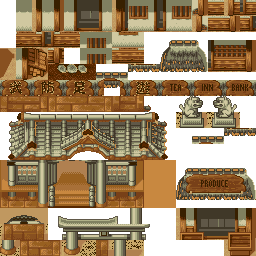
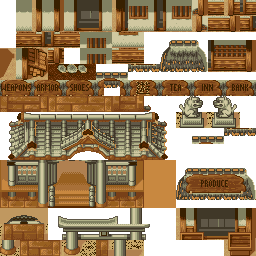
Translate equipment shop plaques and document narrow tile layouts

Changed region(s): [[0.0, 0.3125, 0.2188, 0.375], [0.2812, 0.3125, 0.3438, 0.375]]

diff --git a/tools/debug/field_label_plan.py b/tools/debug/field_label_plan.py
@@ -1,0 +1,62 @@
+"""Inspect a plaque's complete native tile neighborhood and unused atlas slots.
+
+    python tools/debug/field_label_plan.py GV06000D.BIN:0 200 80
+
+Static navigation/allocation evidence only; cold captures remain the QA gate.
+"""
+import argparse
+from pathlib import Path
+import struct
+import sys
+
+sys.path.insert(0, str(Path(__file__).resolve().parents[1]))
+import arc
+import gfx
+from field_consumers import inspect
+
+
+def main():
+    parser = argparse.ArgumentParser(description=__doc__)
+    parser.add_argument('key')
+    parser.add_argument('u', type=int)
+    parser.add_argument('v', type=int)
+    args = parser.parse_args()
+    owners, rows = inspect(args.key, (0, 0, 256, 256))
+    targets = {(row[1], row[2], row[4]) for row in rows
+               if row[3] == 'tile' and row[5:7] == (args.u, args.v)}
+    used = set()
+    for row in rows:
+        _, _, _, _, _, u, v, w, h, *_ = row
+        used.update((x, y) for y in range(v, v + h) for x in range(u, u + w))
+    name, entry = args.key.split(':')
+    raw = gfx.unpack(arc.entries((gfx.TREE / name).read_bytes())[int(entry)][1])[0]
+    assert gfx.layout(raw)[1:3] == (256, 256), 'requires a 256x256 field atlas'
+    pixels = gfx.indices(raw)
+    slots = [(x, y) for y in range(0, 241, 16) for x in range(0, 209, 16)
+             if all((xx, yy) not in used and pixels[yy * 256 + xx] == 0
+                    for yy in range(y, y + 16) for xx in range(x, x + 48))]
+    print('unreferenced transparent 48x16 slots:', slots)
+    for companion in sorted({owner[1] for owner in owners}):
+        entries = arc.entries((gfx.TREE / companion).read_bytes())
+        for entry, (_, table) in enumerate(entries):
+            if table[:2] != b'\x22\x03':
+                continue
+            count = struct.unpack_from('<H', table, 4)[0]
+            records = [struct.unpack_from('<BB3H', table, 8 + i * 8) for i in range(count)]
+            for index, record in enumerate(records):
+                if (companion, entry, index) not in targets:
+                    continue
+                print(companion, 'table', entry, 'tile', index, 'record', record)
+                for grid_entry, (_, grid) in enumerate(entries):
+                    if grid[:4] != b'\x23\0\0\0':
+                        continue
+                    width, height = grid[4:6]
+                    cells = struct.unpack_from(f'<{width * height}H', grid, 8)
+                    for cell, value in enumerate(cells):
+                        if value == index:
+                            print(' grid', grid_entry, 'cell', (cell % width, cell // width),
+                                  'neighbors', [(v, records[v]) for v in cells[cell - 1:cell + 2]])
+
+
+if __name__ == '__main__':
+    main()

diff --git a/tools/gfx_signs.py b/tools/gfx_signs.py
@@ -158,6 +158,16 @@ for _name, (_x, _y, _height) in FISH_ATLASES.items():
          ['Fish Shop'], None, 'plaque'))
 
 
+# Map45 draws these as pairs of 16-pixel tiles. Weapons needs the full
+# thirty-pixel interior; extend the wood behind it within the existing board.
+# The complete index-12/13 masks occur only here in the original archive sweep.
+EQUIPMENT_SIGNS = [('weapons', 0, 'Weapons'), ('armor', 32, 'Armor'), ('shoes', 64, 'Shoes')]
+for _label, _u, _word in EQUIPMENT_SIGNS:
+    SIGNS['GV01000D.BIN:0'].append(
+        (_label, [(_u, 80, 32, 16, 0, 0)], (1, 1, 31, 14), [_word], None,
+         'wide_plaque' if _label == 'weapons' else 'equipment'))
+
+
 def assemble(im, pieces):
     out = Image.new('RGBA', (max(x + w for _, _, w, _, x, _ in pieces),
                              max(y + h for _, _, _, h, _, y in pieces)))
@@ -192,20 +202,23 @@ def draw(im, key, pal):
                 assert wood, (key, y)
                 for x in range(x0, x1):
                     px[x, y] = wood[(x - x0) % len(wood)]
-        elif kind in ('plaque', 'engraved'):
-            # Remove both the engraved stroke and its highlight. Sample only
-            # wood colours, leaving the carved board edge and roof untouched.
+        elif kind in ('plaque', 'engraved', 'wide_plaque', 'equipment'):
+            # Remove engraved strokes and highlights using only wood colours.
+            # Wide plaques also extend wood within their declared interior.
             import gfx
             colours = gfx.palette(gen_gfx.original(key)[0], gen_gfx.EDIT_PALETTES.get(key, 0))
             colour = colours[12]
             ink = set(colours[12:14])
             wood_colours = set(colours[7:11])
             for y in range(y0, y1):
+                # Wide labels can occupy the whole interior: sample untouched
+                # wood in the original row before replacing any pixels.
                 wood = {x: px[x, y] for x in range(board.width)
-                        if px[x, y] in wood_colours and not x0 <= x < x1}
+                        if px[x, y] in wood_colours and
+                        (kind in ('wide_plaque', 'equipment') or not x0 <= x < x1)}
                 assert wood, (key, y)
                 for x in range(x0, x1):
-                    if px[x, y] in ink:
+                    if px[x, y] in ink or (kind == 'wide_plaque' and 3 <= y <= 11):
                         px[x, y] = wood[min(wood, key=lambda sx: abs(sx - x))]
         else:
             # The original lettering is grey; keep the coloured cloth and its

diff --git a/tools/debug/signs_tour.py b/tools/debug/signs_tour.py
@@ -22,6 +22,7 @@ import gen_scenes  # noqa: E402
 from field_signs import check  # noqa: E402
 
 CASES = {
+    'equipment45': (45, 34, 29, 0, 'GV01000D.BIN:0'),
     'produce45': (45, 38, 29, 0, 'GV01000D.BIN:0'),
     'produce80': (80, 21, 43, 0, 'GV04000D.BIN:0'),
     'produce81': (81, 21, 43, 0, 'GV04002D.BIN:0'),
@@ -139,7 +140,8 @@ CASES = {
 # These atlases also retain another Inn tile beneath/outside the visible
 # map layer. These routes approve only the displayed layer's complete label.
 CASE_LABELS = {'inn80': ('inn2',), 'inn163': ('inn2',), 'inn99': ('inn',),
-               'inn100': ('inn',), 'inn295': ('inn',), 'inn335': ('inn2',)}
+               'inn100': ('inn',), 'inn295': ('inn',), 'inn335': ('inn2',),
+               'equipment45': ('weapons', 'armor', 'shoes')}
 
 
 def run(name, args, initializers):

diff --git a/tests/test_signs.py b/tests/test_signs.py
@@ -101,7 +101,7 @@ def test_small_games_boards_keep_complete_english_and_remove_japanese():
 def test_shop_names_use_complete_strokes_in_the_inserted_palette():
     # Night CLUT 0 aliases wood and ink; inspect inserted indices, not just PNGs.
     for key, signs in gfx_signs.SIGNS.items():
-        selected = [s for s in signs if s[0] in ('produce', 'fish')]
+        selected = [s for s in signs if s[0] in ('produce', 'fish', 'weapons', 'armor', 'shoes')]
         if not selected:
             continue
         revised = gfx.indices(gen_gfx.redrawn(key))

diff --git a/docs/re/equipment-signs-qa.md b/docs/re/equipment-signs-qa.md
@@ -1,0 +1,111 @@
+# Equipment shop plaques and narrow-plaque investigation
+
+Map45's three equipment plaques now read **Weapons**, **Armor** and **Shoes**.
+Cold original/English captures show all three completely, and a fresh read-only
+D10 pass accepts all six context/detail sheets. This resolves the equipment
+finding in the older shop-board review; that historical verdict is unchanged.
+Phase 8 remains incomplete and cannot advance to release.
+
+## Sources and preservation
+
+`tools/gfx_signs.py` declares three 32x16 source strips in GV01000D:0 at
+(0,80), (32,80) and (64,80). GV01001D:2 records 70-75 draw them as paired
+16x16 tiles at grid positions (30,31)/(31,31), (38,31)/(39,31), and
+(30,24)/(31,24), respectively. No tile records or map grids were changed.
+
+The complete engraved stroke/highlight masks occur only once each in the
+original archive sweep:
+
+```
+python -X utf8 tools/gfxfind_rect.py GV01000D.BIN:0 9 81 22 94 --indices 12 13
+python -X utf8 tools/gfxfind_rect.py GV01000D.BIN:0 41 81 54 94 --indices 12 13
+python -X utf8 tools/gfxfind_rect.py GV01000D.BIN:0 73 81 86 94 --indices 12 13
+```
+
+These are exact glyph-family sweeps, not coverage of differently drawn sprite
+strips or other equipment signage. Whole-image duplicate expansion also runs
+in `gen_gfx.py`; this atlas has no additional identical image copy.
+
+The existing MIT credits7 font retains the full words. Weapons is 30 pixels
+wide, so rows 3-11 of the plaque interior receive wood behind the outer
+letters. The original tile pair, top/bottom edge and mounting posts stay in
+place. Armor and Shoes only replace the original engraved stroke/highlight
+pixels plus their English letters. Every pixel outside the declared rectangles
+is protected by the existing preservation test. The inserted-index test now
+also checks every English stroke and absence of old highlighting in all three
+equipment labels. Existing plaque rendering is unchanged.
+
+## Cold evidence and validation
+
+```
+python -X utf8 tools/gen_gfx.py --only GV01000D.BIN:0
+python -X utf8 tools/build.py --out build/equipment8.bin
+python -X utf8 tools/debug/signs_tour.py --cue build/equipment8.cue --out work/qa/equipment8_en --only equipment45
+python -X utf8 tools/debug/signs_tour.py --original --out work/qa/equipment8_jp --only equipment45
+python -X utf8 tools/debug/field_signs_review.py work/qa/equipment8_en work/qa/equipment8_jp --out work/qa/equipment8_review
+python -X utf8 "$(python tools/skill.py)/scripts/qa_gate.py" check work/qa/equipment8_review/manifest.tsv work/qa/equipment8_review/verdicts
+```
+
+The route uses map45's native initializer at (34,29), with no story-flag
+override. The complete source rectangles match at (89,157), (217,157), and
+(89,45) under native palette 1 on both discs. The full context and each
+enlarged detail were inspected after implementation. The scoped gate is
+**6/6 ok**, with no missing or stale verdicts; hashes and verdicts are in
+[equipment-signs-verdicts.tsv](equipment-signs-verdicts.tsv). The three
+context sheets deliberately show the same screenshot; this is one scene,
+not three independent gameplay routes.
+
+Validation: **111 tests / lint 0**, **394 changed disc files / 0 verifier
+errors**, **0 Japanese lines in one English log**, and a passing cold smoke
+at `work/qa/equipment8_smoke`. Text logs exclude graphical lettering and
+dialogue not reached by this route. The verified image is copied byte-for-byte
+to `build/momotarou-matsuri_en.bin` and cold-smoked there too.
+
+Build: **182,451,696 bytes**, **2026-11-01 14:08:30 UTC**, SHA-1
+`49e632d7417e4901ca0bfb0bc872b18eb65ab6bd` (same as `build/equipment8.bin`).
+No release was created and no shared skill files changed.
+
+## Narrow plaques: next implementation seam
+
+The adjacent flower and item signs are not equivalent to map45's tile pairs.
+The atlas's apparent board width does not establish its runtime width.
+`tools/debug/field_label_plan.py` prints page/CLUT-qualified native tile
+neighborhoods and conservative, unreferenced transparent 48x16 allocation
+candidates. It reads only; these are navigation leads, not runtime verdicts.
+
+```
+python -X utf8 tools/debug/field_label_plan.py GV06000D.BIN:0 200 80
+python -X utf8 tools/debug/field_label_plan.py GV22000D.BIN:0 80 80
+python -X utf8 tools/debug/field_label_plan.py GV12000D.BIN:0 16 80
+```
+
+- Maps99/100: GV06001D tables 2 and 3 record 200 draws only (200,80,16,16)
+  from the flower board; grid 0 cell (20,39), neighbors 197 and 199. The full
+  board's records 102/103 are unplaced. All three visible tiles use CLUT 30784,
+  page 5. No completely unreferenced transparent 48x16 slot was found in this
+  atlas under the helper's conservative all-record check.
+- Maps237/238: GV22001D table 4 record 75 is the flower tile at (80,80).
+  It occurs at (70,26) in grids 0-3. The front neighbors 742/744 use CLUT
+  31616; the rear neighbors 288/289 use a different page and CLUT 30977.
+  Merely painting a wider word across adjacent atlas columns would overwrite
+  other labels and still fail to draw the complete word. Unreferenced 48x16
+  transparent candidates exist at (176,240), (192,240) and (208,240); these
+  overlap, and do not establish freedom from unknown native consumers.
+- Map143: GV12001D table 2 record 71 is the item tile at (16,80), grid cell
+  (24,20) in grids 0/1. Front neighbors 99/101 share CLUT 31488 and page 5;
+  rear neighbors 289/260 are on another page. No conservative free 48x16
+  slot was found. Map144's snow counterpart still needs separate inspection.
+
+The exact flower mask at GV06000D:0 (201,81)-(214,94) also occurs at
+GV22000D:0 (81,81); the tested medicine mask at GV01000D:0
+(137,81)-(150,95) occurs only there. Neither family was edited this session.
+Their full English labels need a verified wider tile assembly or a renderer
+change, preserving neighboring tiles and palette behavior. Do not abbreviate
+or stretch the current 16-pixel source rectangle and call that complete.
+
+For `references/graphics.md`: a field atlas may contain a 32-pixel plaque
+while its map draws only the middle 16 pixels; inspect actual tile-grid
+consumers before choosing an English label width. Other open phase-8 work
+remains in `docs/status.md`, including the full visual manifest, story/NPC
+routes, HUD outcomes and unresolved graphics. This checkpoint is not a
+phase-wide QA approval.

diff --git a/docs/status.md b/docs/status.md
@@ -4,6 +4,20 @@ Updated at the end of every session. Keep it to what the next session needs; his
 
 - **Phase:** **8 in progress** (QA in the emulator), then 9 (release).
 - **Done (phase 8 so far, 2026-11-02):**
+  - Equipment plaques: map45 now shows full **Weapons / Armor / Shoes**, with **3/3 complete
+    matches on both discs** and a fresh D10 gate of **6/6 ok** (one scene, three detail pairs).
+    Weapons expands the wood interior within the original 32-pixel tile pair; no map/code edits.
+    Complete engraved-mask sweeps find these three glyph forms only in GV01000D:0.
+    `equipment-signs-qa.md` records preservation, source coordinates, routes and verdict hashes.
+  - Narrow-plaque investigation: the Flowers/Items maps draw only a central 16-pixel tile even
+    when the atlas shows a wider board. `field_label_plan.py` now prints qualified native neighbors
+    and conservative allocation candidates. Maps99/100, 237/238 and 143 are mapped in the report;
+    mixed-palette/layer neighbors need verified tile-layout or renderer work, not a wider PNG alone.
+  - Latest validation: **111 tests / lint 0**, verifier **394 changed files / 0 errors**, cold main smoke
+    `equipment8_main_smoke` passed; **0 Japanese lines in one log** (graphics excluded). Main disc:
+    **182,451,696 bytes**, build **2026-11-01 14:08:30 UTC**, SHA-1
+    **49e632d7417e4901ca0bfb0bc872b18eb65ab6bd** (identical to `build/equipment8.bin`).
+    **Phase 8 cannot advance: its phase-wide graphics/visual gates remain incomplete.**
   - Games/Produce/Fish Shop checkpoint: **20 sign placements in 18 atlases** translated; complete mask
     sweeps cover seven new Games, nine Produce and four Fish Shop textures. **24/24 cold placements
     pass on both discs** (10 Games, 10 Produce, 4 Fish Shop). Read-only D10 review accepts all 24 detail
@@ -420,8 +434,9 @@ Updated at the end of every session. Keep it to what the next session needs; his
     Static/underlying copies and map208 remain unproved.
     Tea/Bank glyph families now have 48 accepted cold placements (`tea-bank-signs-qa.md`); their broader
     views exposed Games boards in maps80/81 and 263 plus Produce/Fish Shop boards, now covered by
-    `shop-boards-qa.md` (24 cold placements). Medicine, item/equipment, flower and bath plaques remain;
-    follow the six new issues in `shop-boards-verdicts.tsv` and the unresolved portions of the 18 older
+    `shop-boards-qa.md` (24 cold placements). Map45's equipment plaques now have cold proof
+    (`equipment-signs-qa.md`); other equipment sprite forms, medicine, item, flower and bath plaques remain.
+    Follow the five unresolved issues in `shop-boards-verdicts.tsv` and the unresolved portions of the 18 older
     whole-scene issues in `tea-bank-signs-verdicts.tsv`. Historical verdicts are not retroactively changed.
     `plaque_consumers.py tea|bank` gives static navigation leads; `signs_tour.py --only tea* / bank*`
     means the explicit named cases in its CASES table (the CLI does not expand wildcards).
